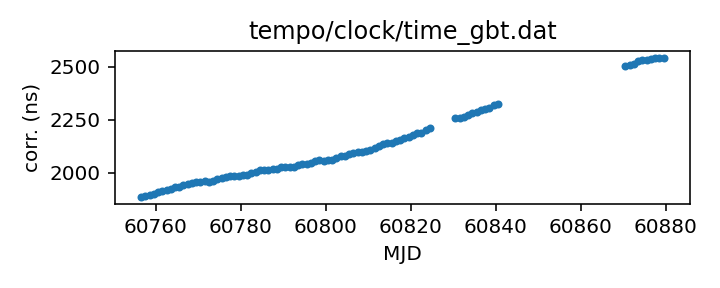
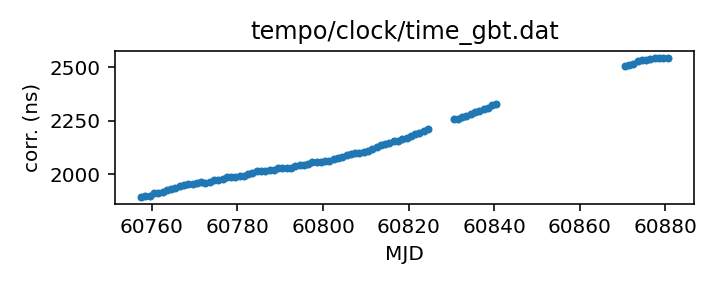
Routine gh-pages update from Github action Fri Jul 25 20:45:38 UTC 2025

diff --git a/status.md b/status.md
@@ -13,18 +13,18 @@ name of each clock file links to a page with more details.
 
 | Name | File | Corrections start | Corrections end | Last check date | Last check result 
 |:--- |:--- | --- | --- | --- |:--- 
-| [GPS to UTC](T2runtime/clock/gps2utc.clk.html) | `T2runtime/clock/gps2utc.clk` | 1993-01-01 MJD 48988.0 | 2025-06-28 MJD 60854.0 | 2025-07-24 | Unchanged 
-| [GPS to UTC (Combined Clock)](T2runtime/clock/gps2utc_cc.clk.html) | `T2runtime/clock/gps2utc_cc.clk` | 1993-01-01 MJD 48988.0 | 2025-06-28 MJD 60854.0 | 2025-07-24 | Unchanged 
-| [GPS to UTC (Corrected)](T2runtime/clock/gps2utc_c0p.clk.html) | `T2runtime/clock/gps2utc_c0p.clk` | 2010-12-29 MJD 55559.0 | 2025-06-28 MJD 60854.0 | 2025-07-24 | Unchanged 
-| [GBT](tempo/clock/time_gbt.dat.html) | `tempo/clock/time_gbt.dat` | 2000-12-31 MJD 51909.5 | 2025-07-23 MJD 60879.5 | 2025-07-24 | Updated 
-| [GBT (TEMPO2 converted from TEMPO)](T2runtime/clock/gbt2gps.clk.html) | `T2runtime/clock/gbt2gps.clk` | 2000-12-31 MJD 51909.5 | 2024-05-18 MJD 60448.5 | 2025-07-24 | **Validation failed** 
+| [GPS to UTC](T2runtime/clock/gps2utc.clk.html) | `T2runtime/clock/gps2utc.clk` | 1993-01-01 MJD 48988.0 | 2025-06-28 MJD 60854.0 | 2025-07-25 | Unchanged 
+| [GPS to UTC (Combined Clock)](T2runtime/clock/gps2utc_cc.clk.html) | `T2runtime/clock/gps2utc_cc.clk` | 1993-01-01 MJD 48988.0 | 2025-06-28 MJD 60854.0 | 2025-07-25 | Unchanged 
+| [GPS to UTC (Corrected)](T2runtime/clock/gps2utc_c0p.clk.html) | `T2runtime/clock/gps2utc_c0p.clk` | 2010-12-29 MJD 55559.0 | 2025-06-28 MJD 60854.0 | 2025-07-25 | Unchanged 
+| [GBT](tempo/clock/time_gbt.dat.html) | `tempo/clock/time_gbt.dat` | 2000-12-31 MJD 51909.5 | 2025-07-24 MJD 60880.5 | 2025-07-25 | Updated 
+| [GBT (TEMPO2 converted from TEMPO)](T2runtime/clock/gbt2gps.clk.html) | `T2runtime/clock/gbt2gps.clk` | 2000-12-31 MJD 51909.5 | 2024-05-18 MJD 60448.5 | 2025-07-25 | **Validation failed** 
 | [Jodrell Bank](T2runtime/clock/jb2gps.clk.html) | `T2runtime/clock/jb2gps.clk` | 2006-10-13 MJD 54021.4 | 2024-11-07 MJD 60621.0 | 2025-07-21 | Unchanged 
 | [Jodrell Bank Roach](T2runtime/clock/jbroach2jb.clk.html) | `T2runtime/clock/jbroach2jb.clk` | 2006-10-13 MJD 54021.4 | 2018-03-20 MJD 58197.6 | 2025-07-21 | Unchanged 
 | [Jodrell Bank DFB](T2runtime/clock/jbdfb2jb.clk.html) | `T2runtime/clock/jbdfb2jb.clk` | 2006-10-13 MJD 54021.4 | 2021-02-22 MJD 59268.0 | 2025-07-21 | Unchanged 
 | [Meerkat (observatory)](T2runtime/clock/mk2utc_observatory.clk.html) | `T2runtime/clock/mk2utc_observatory.clk` | 2019-01-01 MJD 58484.0 | 2025-06-17 MJD 60844.0 | 2025-07-21 | Unchanged 
-| [Leap seconds](tempo/clock/leap.sec.html) | `tempo/clock/leap.sec` | 1972-07-01 MJD 41499.0 | 2017-01-01 MJD 57754.0 | 2025-07-24 | Unchanged 
-| [UT1 table](tempo/clock/ut1.dat.html) | `tempo/clock/ut1.dat` | 1973-01-02 MJD 41684.0 | 2026-08-01 MJD 61253.0 | 2025-07-24 | Updated 
-| [UT1 table](T2runtime/clock/ut1.dat.html) | `T2runtime/clock/ut1.dat` | 1973-01-02 MJD 41684.0 | 2026-08-01 MJD 61253.0 | 2025-07-24 | Updated 
+| [Leap seconds](tempo/clock/leap.sec.html) | `tempo/clock/leap.sec` | 1972-07-01 MJD 41499.0 | 2017-01-01 MJD 57754.0 | 2025-07-25 | Unchanged 
+| [UT1 table](tempo/clock/ut1.dat.html) | `tempo/clock/ut1.dat` | 1973-01-02 MJD 41684.0 | 2026-08-01 MJD 61253.0 | 2025-07-25 | Unchanged 
+| [UT1 table](T2runtime/clock/ut1.dat.html) | `T2runtime/clock/ut1.dat` | 1973-01-02 MJD 41684.0 | 2026-08-01 MJD 61253.0 | 2025-07-25 | Unchanged 
 
 
 

diff --git a/T2runtime/clock/gbt2gps.clk.md b/T2runtime/clock/gbt2gps.clk.md
@@ -25,12 +25,11 @@ If questions arise about the conversion, contact Anne Archibald
 | Clock file start | 2000-12-31 MJD 51909.5 |
 | Clock file end | 2024-05-18 MJD 60448.5 |
 | Update interval (days) | 1 |
-| Last update attempt | 2025-07-24 |
+| Last update attempt | 2025-07-25 |
 | Last update result | Validation failed |
 
 Log entries from the last few update attempts:
 ```
-2025-07-15 20:44:56.388 - Validation failed: New version of T2runtime/clock/gbt2gps.clk MJDs differ from old version where they overlap in 8407 places
 2025-07-16 20:45:18.884 - Validation failed: New version of T2runtime/clock/gbt2gps.clk MJDs differ from old version where they overlap in 8407 places
 2025-07-17 20:45:18.337 - Validation failed: New version of T2runtime/clock/gbt2gps.clk MJDs differ from old version where they overlap in 8407 places
 2025-07-18 20:44:21.374 - Validation failed: New version of T2runtime/clock/gbt2gps.clk MJDs differ from old version where they overlap in 8407 places
@@ -40,6 +39,7 @@ Log entries from the last few update attempts:
 2025-07-22 20:45:09.986 - Validation failed: New version of T2runtime/clock/gbt2gps.clk MJDs differ from old version where they overlap in 8407 places
 2025-07-23 20:45:36.225 - Validation failed: New version of T2runtime/clock/gbt2gps.clk MJDs differ from old version where they overlap in 8407 places
 2025-07-24 20:44:11.804 - Validation failed: New version of T2runtime/clock/gbt2gps.clk MJDs differ from old version where they overlap in 8407 places
+2025-07-25 20:45:03.546 - Validation failed: New version of T2runtime/clock/gbt2gps.clk MJDs differ from old version where they overlap in 8407 places
 ```
 [Full log](https://raw.githubusercontent.com/ipta/pulsar-clock-corrections/main/log/T2runtime/clock/gbt2gps.clk.log)
 

diff --git a/tempo/clock/time_gbt.dat.md b/tempo/clock/time_gbt.dat.md
@@ -36,14 +36,13 @@ If questions arise, contact Ryan S. Lynch <rlynch@nrao.edu>.
 | Format | tempo |
 | Bogus last correction | False |
 | Clock file start | 2000-12-31 MJD 51909.5 |
-| Clock file end | 2025-07-23 MJD 60879.5 |
+| Clock file end | 2025-07-24 MJD 60880.5 |
 | Update interval (days) | 1 |
-| Last update attempt | 2025-07-24 |
+| Last update attempt | 2025-07-25 |
 | Last update result | Updated |
 
 Log entries from the last few update attempts:
 ```
-2025-07-15 20:44:56.328 - Updated
 2025-07-16 20:45:18.826 - Updated
 2025-07-17 20:45:18.280 - Updated
 2025-07-18 20:44:21.315 - Updated
@@ -53,6 +52,7 @@ Log entries from the last few update attempts:
 2025-07-22 20:45:09.927 - Updated
 2025-07-23 20:45:36.167 - Updated
 2025-07-24 20:44:11.749 - Updated
+2025-07-25 20:45:03.488 - Updated
 ```
 [Full log](https://raw.githubusercontent.com/ipta/pulsar-clock-corrections/main/log/tempo/clock/time_gbt.dat.log)
 

diff --git a/T2runtime/clock/gps2utc_c0p.clk.md b/T2runtime/clock/gps2utc_c0p.clk.md
@@ -30,12 +30,11 @@ about the BIPM's published corrections, contact <tai@bipm.org>.
 | Clock file start | 2010-12-29 MJD 55559.0 |
 | Clock file end | 2025-06-28 MJD 60854.0 |
 | Update interval (days) | 1 |
-| Last update attempt | 2025-07-24 |
+| Last update attempt | 2025-07-25 |
 | Last update result | Unchanged |
 
 Log entries from the last few update attempts:
 ```
-2025-07-15 20:44:55.903 - Unchanged
 2025-07-16 20:45:18.369 - Unchanged
 2025-07-17 20:45:17.864 - Unchanged
 2025-07-18 20:44:20.883 - Unchanged
@@ -45,6 +44,7 @@ Log entries from the last few update attempts:
 2025-07-22 20:45:09.374 - Unchanged
 2025-07-23 20:45:35.661 - Unchanged
 2025-07-24 20:44:11.041 - Unchanged
+2025-07-25 20:45:02.585 - Unchanged
 ```
 [Full log](https://raw.githubusercontent.com/ipta/pulsar-clock-corrections/main/log/T2runtime/clock/gps2utc_c0p.clk.log)
 

diff --git a/T2runtime/clock/gps2utc_cc.clk.md b/T2runtime/clock/gps2utc_cc.clk.md
@@ -29,12 +29,11 @@ about the BIPM's published corrections, contact <tai@bipm.org>.
 | Clock file start | 1993-01-01 MJD 48988.0 |
 | Clock file end | 2025-06-28 MJD 60854.0 |
 | Update interval (days) | 1 |
-| Last update attempt | 2025-07-24 |
+| Last update attempt | 2025-07-25 |
 | Last update result | Unchanged |
 
 Log entries from the last few update attempts:
 ```
-2025-07-15 20:44:55.895 - Unchanged
 2025-07-16 20:45:18.361 - Unchanged
 2025-07-17 20:45:17.857 - Unchanged
 2025-07-18 20:44:20.875 - Unchanged
@@ -44,6 +43,7 @@ Log entries from the last few update attempts:
 2025-07-22 20:45:09.365 - Unchanged
 2025-07-23 20:45:35.653 - Unchanged
 2025-07-24 20:44:11.034 - Unchanged
+2025-07-25 20:45:02.577 - Unchanged
 ```
 [Full log](https://raw.githubusercontent.com/ipta/pulsar-clock-corrections/main/log/T2runtime/clock/gps2utc_cc.clk.log)
 

diff --git a/T2runtime/clock/gps2utc.clk.md b/T2runtime/clock/gps2utc.clk.md
@@ -32,12 +32,11 @@ about the BIPM's published corrections, contact <tai@bipm.org>.
 | Clock file start | 1993-01-01 MJD 48988.0 |
 | Clock file end | 2025-06-28 MJD 60854.0 |
 | Update interval (days) | 1 |
-| Last update attempt | 2025-07-24 |
+| Last update attempt | 2025-07-25 |
 | Last update result | Unchanged |
 
 Log entries from the last few update attempts:
 ```
-2025-07-15 20:44:55.872 - Unchanged
 2025-07-16 20:45:18.339 - Unchanged
 2025-07-17 20:45:17.835 - Unchanged
 2025-07-18 20:44:20.853 - Unchanged
@@ -47,6 +46,7 @@ Log entries from the last few update attempts:
 2025-07-22 20:45:09.341 - Unchanged
 2025-07-23 20:45:35.631 - Unchanged
 2025-07-24 20:44:11.013 - Unchanged
+2025-07-25 20:45:02.554 - Unchanged
 ```
 [Full log](https://raw.githubusercontent.com/ipta/pulsar-clock-corrections/main/log/T2runtime/clock/gps2utc.clk.log)
 

diff --git a/T2runtime/clock/ut1.dat.md b/T2runtime/clock/ut1.dat.md
@@ -30,12 +30,11 @@ If there are any questions, contact Anne Archibald
 | File start | 1973-01-02 MJD 41684.0 |
 | File end | 2026-08-01 MJD 61253.0 |
 | Update interval (days) | 0 |
-| Last update attempt | 2025-07-24 |
-| Last update result | Updated |
+| Last update attempt | 2025-07-25 |
+| Last update result | Unchanged |
 
 Log entries from the last few update attempts:
 ```
-2025-07-15 20:45:06.836 - Unchanged
 2025-07-16 20:45:26.745 - Unchanged
 2025-07-17 20:45:27.421 - Updated
 2025-07-18 20:44:34.000 - Unchanged
@@ -45,5 +44,6 @@ Log entries from the last few update attempts:
 2025-07-22 20:45:18.270 - Unchanged
 2025-07-23 20:45:44.492 - Unchanged
 2025-07-24 20:44:22.968 - Updated
+2025-07-25 20:45:23.324 - Unchanged
 ```
 [Full log](https://raw.githubusercontent.com/ipta/pulsar-clock-corrections/main/log/T2runtime/clock/ut1.dat.log)

diff --git a/tempo/clock/ut1.dat.md b/tempo/clock/ut1.dat.md
@@ -30,12 +30,11 @@ If there are any questions, contact Anne Archibald
 | File start | 1973-01-02 MJD 41684.0 |
 | File end | 2026-08-01 MJD 61253.0 |
 | Update interval (days) | 0 |
-| Last update attempt | 2025-07-24 |
-| Last update result | Updated |
+| Last update attempt | 2025-07-25 |
+| Last update result | Unchanged |
 
 Log entries from the last few update attempts:
 ```
-2025-07-15 20:45:06.786 - Unchanged
 2025-07-16 20:45:26.694 - Unchanged
 2025-07-17 20:45:27.371 - Updated
 2025-07-18 20:44:33.951 - Unchanged
@@ -45,5 +44,6 @@ Log entries from the last few update attempts:
 2025-07-22 20:45:18.221 - Unchanged
 2025-07-23 20:45:44.442 - Unchanged
 2025-07-24 20:44:22.919 - Updated
+2025-07-25 20:45:23.273 - Unchanged
 ```
 [Full log](https://raw.githubusercontent.com/ipta/pulsar-clock-corrections/main/log/tempo/clock/ut1.dat.log)

diff --git a/tempo/clock/leap.sec.md b/tempo/clock/leap.sec.md
@@ -21,12 +21,11 @@ If there are any questions, contact Anne Archibald
 | File start | 1972-07-01 MJD 41499.0 |
 | File end | 2017-01-01 MJD 57754.0 |
 | Update interval (days) | 0 |
-| Last update attempt | 2025-07-24 |
+| Last update attempt | 2025-07-25 |
 | Last update result | Unchanged |
 
 Log entries from the last few update attempts:
 ```
-2025-07-15 20:44:56.415 - Unchanged
 2025-07-16 20:45:18.910 - Unchanged
 2025-07-17 20:45:18.363 - Unchanged
 2025-07-18 20:44:21.400 - Unchanged
@@ -36,5 +35,6 @@ Log entries from the last few update attempts:
 2025-07-22 20:45:10.012 - Unchanged
 2025-07-23 20:45:36.251 - Unchanged
 2025-07-24 20:44:11.827 - Unchanged
+2025-07-25 20:45:03.572 - Unchanged
 ```
 [Full log](https://raw.githubusercontent.com/ipta/pulsar-clock-corrections/main/log/tempo/clock/leap.sec.log)
